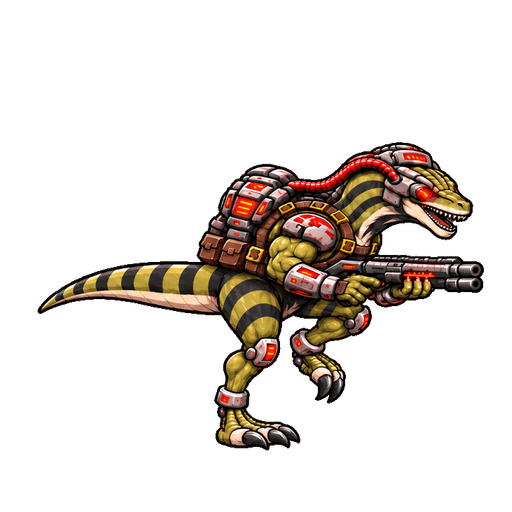
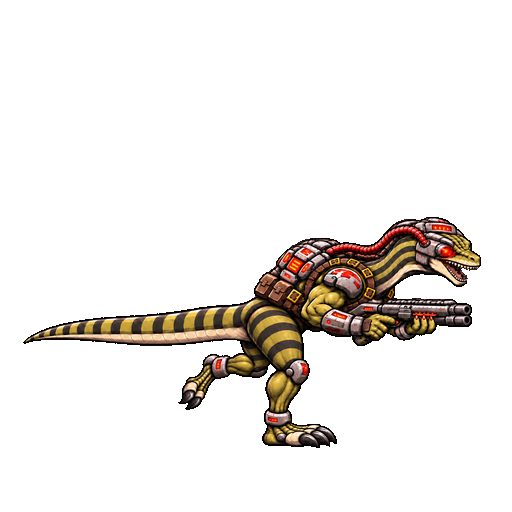
39T7.3: correct right standing, stalk and jog anatomy for isolated playback

Changed region(s): [[0.0312, 0.2812, 0.9688, 0.875]]

diff --git a/app/studio/character-lab/page.tsx b/app/studio/character-lab/page.tsx
@@ -23,13 +23,13 @@ export default function CombatLab(){
  return <main style={{minHeight:"100vh",background:"#08101b",color:"#f5fbff",fontFamily:"Arial",padding:"max(25px,env(safe-area-inset-top)) 20px"}}>
   <div style={{maxWidth:800,margin:"auto"}}>
    <a href="/studio" style={{color:"#89e9f2"}}>← BACK TO STUDIO</a>
-   <p style={{color:"#ff8d9e",letterSpacing:2,fontSize:12}}>GOD MODE / BUILD 39T7.2 PLAYTEST</p>
+   <p style={{color:"#ff8d9e",letterSpacing:2,fontSize:12}}>GOD MODE / BUILD 39T7.3 PLAYTEST</p>
    <h1>COMBAT LAB</h1>
    <a href="/raptor-animation-review.html" style={{color:"#89e9f2"}}>Review all run and slide frames</a>
    <p>Both fighters use the newer XYZ combat engine. This is a test build, not a production character unlock.</p>
    <div style={{display:"grid",gridTemplateColumns:"repeat(auto-fit,minmax(230px,1fr))",gap:14,marginTop:25}}>
     <button style={button} onClick={()=>setFighter("jade")}>JADE <small style={{display:"block",fontWeight:400,marginTop:10}}>Existing gameplay baseline</small></button>
-    <button disabled={artReady!==true} style={{...button,borderColor:"#ff925e",opacity:artReady?1:.5}} onClick={()=>setFighter("raptor")}>RAPTOR V2 <small style={{display:"block",fontWeight:400,marginTop:10}}>{artReady===null?"Loading Raptor artwork…":artReady?"Eight standing views · Left/right stalk / jog pilot":"Artwork failed to load — reload to retry"}</small></button>
+    <button disabled={artReady!==true} style={{...button,borderColor:"#ff925e",opacity:artReady?1:.5}} onClick={()=>setFighter("raptor")}>RAPTOR V2 <small style={{display:"block",fontWeight:400,marginTop:10}}>{artReady===null?"Loading Raptor artwork…":artReady?"Right anatomy correction · Other directions under review":"Artwork failed to load — reload to retry"}</small></button>
    </div>
    <p style={{color:"#f5bf8e",fontSize:13,marginTop:24}}>Standing now has dedicated artwork in all eight directions. Left- and right-facing movement have distinct stalking, jogging, and sprint poses; the other six slow gaits remain provisional. Use the pace selector with keyboard or touch to review the transitions. Controller stick pressure remains analog. Moving fire follows aim.</p>
   </div>

diff --git a/docs/raptor-39t7-anatomy-audit.md b/docs/raptor-39t7-anatomy-audit.md
@@ -54,3 +54,7 @@ Candidate export uses uniform scale per source family (not per-pose bounding-box
 - No physical-controller hardware test was performed.
 
 Counts for this correction pass: 0 production-accepted, 0 runtime-installed, 0 gameplay-verified replacements. Nine right review exports are candidates, not completion.
+
+## 39T7.3 right-direction pilot update
+Single-frame leg edits resolved the paired-sheet neck/chest drift for the right jog. Selected jog sources: right-jog-contact-master.png (top crop of exec-a437392e-7b7c-4a08-9881-1599185640d1.png), exec-30f9581b-fb85-4aa3-92d2-39fec01b83ea.png, exec-06cea895-3830-4e22-8c9c-8b60122d2d6b.png, exec-2c41006b-49f1-4275-a381-a25c08b0852f.png.
+Nine right assets (idle1/stalk4/jog4) passed static visual review for the isolated pilot and local file validation. All512x512, SHA256 matches, alpha borders clear. Gait/hysteresis/moving-fire/slide-recovery selection tests passed. No movement/input code changed. Manifest build39T7.3. This supersedes the earlier zero-accepted status for those9 only. Live gameplay acceptance remains pending; all other unresolved inventory above remains open. Do not call the overall anatomy correction complete.
